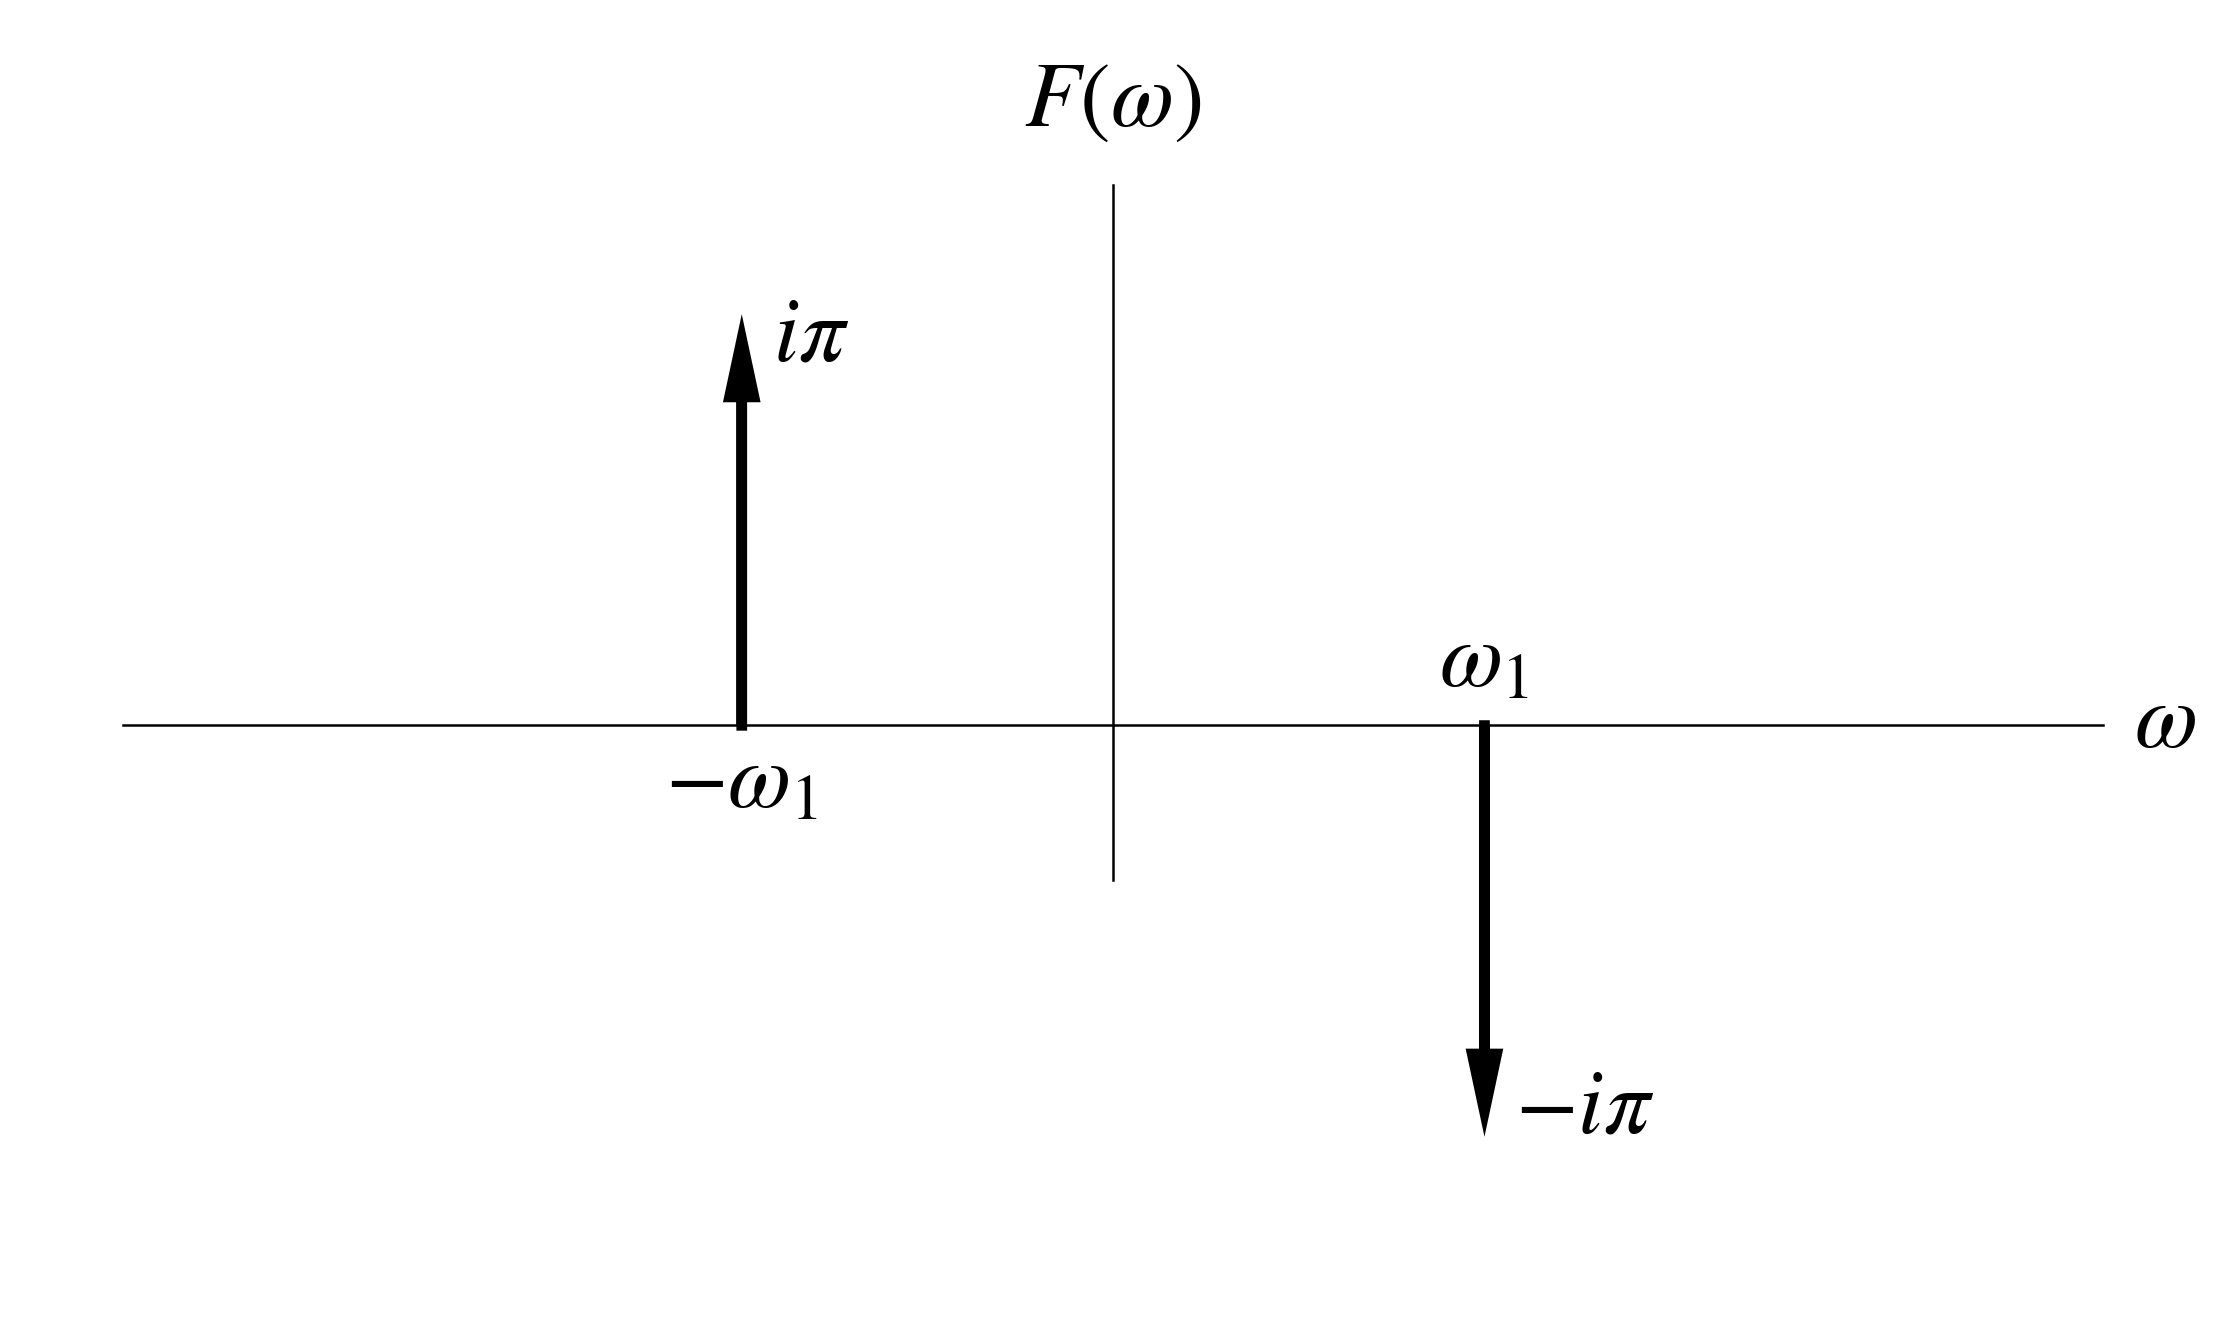
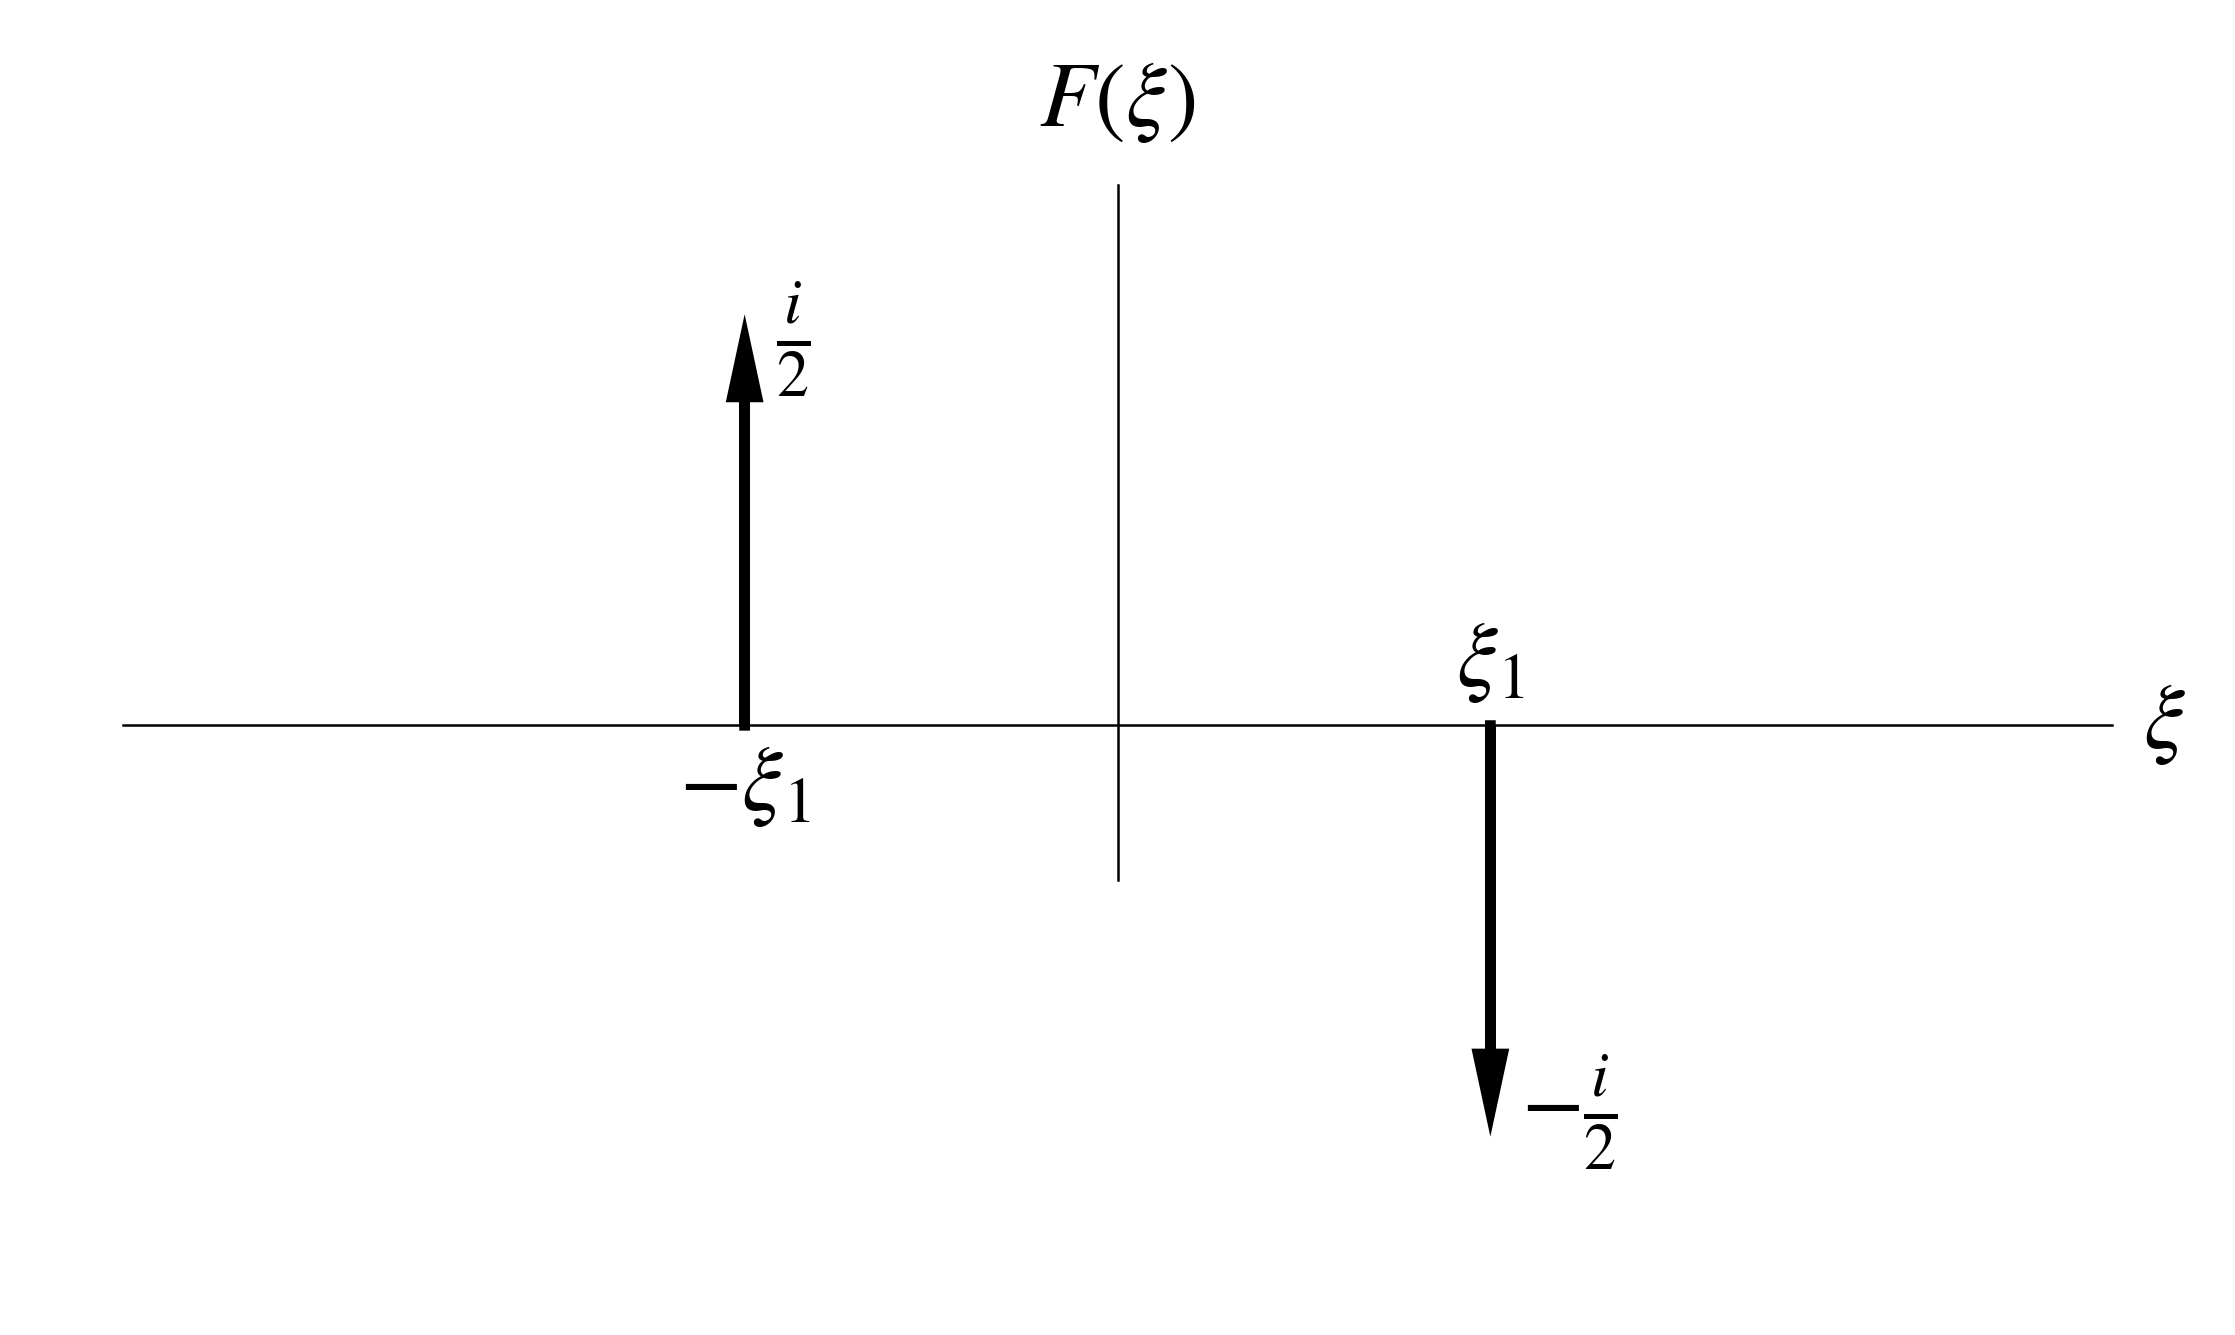
Completed Fourier Transform subsection

diff --git a/intro_to_QML/Ch2_simple_quantum_algorithms.html b/intro_to_QML/Ch2_simple_quantum_algorithms.html
@@ -406,8 +406,11 @@ img {
     
     <p>The Fourier Transform is a centrally important and widely used mathematical tool. In the case of signal processing of an audio or electromagnetic wave, it can convert a signal which varies in time (also called the 'time domain') into a visualisation of the component frequencies (called the 'frequency domain').</p>
 
-    <p>So, for a time varying equation $f(t)$ can be transformed into a frequency varying $F(\omega)$ through the following equation, where $\omega$ is angular frequency which can be related to frequency $f$ as $\omega = 2\pi f$.</p>
-    <p>$$F(\omega) = \int_{-\infty}^{\infty} g(t) e^{-i\omega t} dt$$</p>
+    <p>So, for a time varying equation $f(t)$ can be transformed into a frequency varying $F(\xi)$ through the Fourier transform, where $\xi$ is frequency and $t$ is time, as shown below</p>
+    <p>$$F(\xi) = \int_{-\infty}^{\infty} f(t) e^{2\pi i\xi t} dt$$</p>
+    <p>The inverse Fourier transform inverts this, yielding the time domain $f(t)$ from the Frequency domain $F(\xi)$</p>
+    <p>$$f(t) = \int_{-\infty}^{\infty} F(\xi) e^{2\pi i \xi t} dt$$</p>
+
 
     <!--bookmark: Visualise the discrete Fourier transform with graphs and explain.-->
     <p>To better understand this, it's worth demonstrating superposition by superimposing waveforms as seen below.</p>
@@ -415,54 +418,67 @@ img {
 
 
     <p>Before performing Fourier Transforms on the above waveforms, it's worth noting a rather useful integral identity</p>
-    <p>$$2\pi \delta (a - b) = \int_{-\infty}^{\infty} e^{-i (a-b) x }  dx $$</p>
+    <p>$$\delta (a - b) = \int_{-\infty}^{\infty} e^{-2 \pi i (a-b) x }  dx $$</p>
     <p>Where $\delta (a-b)$ is the Dirac delta, which is only equal to 1 if its argument, $a-b$, is equal to $0$, and is otherwise zero.</p>
 
-    <p>Let's start with the Fourier Transform of the first waveform which is a sine wave with a frequency of 5 Hz. Its angular frequency is given by $\omega_1=2\pi \times 5$.</p>
-    <p>$$F_{1}(\omega) = \int_{-\infty}^{\infty} sin(\omega_1 t) e^{-i\omega t} dt$$</p>
+    <p>Let's start with the Fourier Transform of the first waveform which is a sine wave with a frequency of $\xi_1=5$ Hz. </p>
+    <p>$$F_{1}(\omega) = \int_{-\infty}^{\infty} sin(2\pi \xi_1 t) e^{-2 \pi i \xi t} dt$$</p>
     <p>The sine equation can also be re-expressed as
     $$sin(\theta) = \frac{1}{2 i} (e^{i\theta}-e^{-i\theta})$$
-    Which when substituted into $F_{1}(\omega)$ leads to
+    Which when substituted into $F_{1}(\xi)$ leads to
     </p>
     <p>\begin{align}
-    F_{1}(\omega) &= \frac{1}{2 i}  \int_{-\infty}^{\infty} (e^{i\omega_{1}t}-e^{-i\omega_{1} t}) e^{-i\omega t} dt \\
-    &= frac{1}{2 i}\int_{-\infty}^{\infty} e^{-i(\omega-\omega_{1})t} dt - frac{1}{2 i}\int_{-\infty}^{\infty} e^{-i(\omega+\omega_{1})t} dt \\
+    F_{1}(\xi) &= \frac{1}{2 i}  \int_{-\infty}^{\infty} (e^{2\pi i\xi_{1}t}-e^{-2\pi i\xi_{1} t}) e^{-2\pi i\xi t} dt \\
+    &= \frac{1}{2 i}\int_{-\infty}^{\infty} e^{-2\pi i(\xi-\xi_{1})t} dt - \frac{1}{2 i}\int_{-\infty}^{\infty} e^{-2\pi i(\xi+\xi_{1})t} dt \\
     \end{align}
     </p>
     <p>Then, we can substitute the aforementioned integral identity leading to the Dirac delta
-    $$F_{1}(\omega) = \frac{\pi}{i} \delta(\omega-\omega_{1}) - \frac{\pi}{i}\delta(\omega+\omega_{1})$$
+    $$F_{1}(\omega) = \frac{1}{2i} \delta(\xi-\xi_{1}) - \frac{1}{2i}\delta(\xi+\xi_{1})$$
     Which when using $\frac{1}{i}=-i$ turns into
-    $$F_{1}(\omega) = -i\pi\delta(\omega-\omega_{1}) + i\pi\delta(\omega+\omega_{1})$$
+    $$F_{1}(\omega) = -\frac{i}{2}\delta(\xi-\xi_{1}) + \frac{i}{2}\delta(\xi+\xi_{1})$$
     </p>
 
     <p>When this Fourier transform $F_{1}$ is plotted, it leads to</p>
     <img src="Figures/Ch2_Quantum_Algorithms_Figures/fourier_spectrum_for_sine_wave.png" alt="Fourier spectrum of sine wave" width=1000 height=599>
 
-    <p>A similar conclusion can be drawn from the third waveform $w_{3}=1.2 sin(60\pi t)$, since it is also a sine wave, except with an amplitude factor of $1.2$ which leads to peaks of magnitude $1.2 \pi$ at $|\omega|=\omega_{3}=60\pi$</p>
+    <p>A similar conclusion can be drawn from the third waveform $w_{3}=1.2 sin(60\pi t)$, since it is also a sine wave, except with an amplitude factor of $1.2$ which leads to peaks of magnitude $1.2 \pi$ at $|\xi|=\xi_{3}=30$</p>
 
 
     <p>For cosine waveforms, such as $w_{2}=cos(30\pi t)$ we have to instead substitute in the following identity
-    $$sin(\theta) = \frac{1}{2} (e^{i\theta}+e^{-i\theta})$$
-    Following a similar derivation as above, and using $\omega_{3}=60\pi$ leads to</p>
+    $$cos(\theta) = \frac{1}{2} (e^{i\theta}+e^{-i\theta})$$
+    Following a similar derivation as above, and using $\omega_{2}=30\pi$ leads to</p>
     <p>
     \begin{align}
-    F_{3}(\omega) &= \int_{-\infty}^{\infty} cos(\omega_{3} t) e^{-i\omega t} dt\\
-    &= \frac{1}{2} \int_{-\infty}^{\infty} (e^{i\omega_{3}t}+e^{-i\omega_{3} t}) e^{-i\omega t} dt \\
-    &= \frac{1}{2} \int_{-\infty}^{\infty} e^{-i(\omega-\omega_{3})t} dt + frac{1}{2} \int_{-\infty}^{\infty} e^{-i(\omega+\omega_{3})t} dt 
-    &= \pi \delta(\omega-\omega_{3}) + \pi \delta(\omega+\omega_{3})
+    F_{2}(\xi) &= \int_{-\infty}^{\infty} cos(2\pi\xi_{2} t) e^{-2\pi i\xi t} dt\\
+    &= \frac{1}{2} \int_{-\infty}^{\infty} (e^{2\pi i\xi_{2}t}+e^{-2\pi i\xi_{2} t}) e^{-2\pi i\xi t} dt \\
+    &= \frac{1}{2} \int_{-\infty}^{\infty} e^{-2\pi i(\xi-\xi_{2})t} dt + \frac{1}{2} \int_{-\infty}^{\infty} e^{-2\pi i(\xi+\xi_{2})t} dt\\ 
+    &=  \frac{1}{2} \delta(\xi-\xi_{2}) + \frac{1}{2} \delta(\xi+\xi_{2})
     \end{align}
     </p>
 
     <img src="Figures/Ch2_Quantum_Algorithms_Figures/fourier_spectrum_for_cosine_wave.png" alt="Fourier spectrum of cosine wave" width=1000 height=599>
 
+    <p>With the linear nature of Fourier transform, we can sum the Fourier transforms of the component waveforms to arrive at the Fourier transform of the total waveform $F_{t}(\omega)$</p>
+
+    <p>
+    \begin{align}
+    w &= w_1 + w_2 + w_3 \\
+    F(w) &= F(w_1) + F(w_2) + F(w_3) \\
+    F_{t}(\omega) &= F_{1}(\omega) + F_{2}(\omega) + F_{3}(\omega) \\
+    F_{t}(\omega) &= -0.5i\delta(\xi-5) + 0.5i\delta(\xi+5) \\ &+ 0.5 \delta(\xi-15) + 0.5 \delta(\xi+15) \\ &-0.6 i\delta(\xi-30) + 0.6 i\delta(\xi+30)
+    \end{align}
+    </p>
+    <p>Due to the complex nature of this equation, containing both imaginary and real terms, the following visualisation is of the magnitude $|F_{t}(\omega)|$</p>
+    <img src="Figures/Ch2_Quantum_Algorithms_Figures/magnitude_of_fourier_spectrum_for_composite_waveform.png" width=1000 height=601 alt="Magnitude of Fourier spectrum of composite wave">
     <!--bookmark: Explain how Fourier transform for the composite waveform works, check and briefly describe the properties of the Fourier transform and how they can be used for such purposes, and demonstrate with a figure-->
 
+
+    <h2>Quantum Fourier Transform Circuit</h2>
+
     <!--bookmark: Discrete Fourier Transform. Explain it, and the forward and inverse transforms-->
-    <h2>Quantum Fourier Transform</h2>
-
-
-
-    <!--bookmark: Explain the Quantum Fourier transform, both mathematically wand with a circuit.-->
+    <!--bookmark: Explain the QFT and its inverse mathematically -->
+    
+    <!--bookmark: Explain the Quantum Fourier transform in circuit form-->
     <!--bookmark: Show the inverse Fourier circuit.--> 
     <!--bookmark: Show a 3 qubit example with T and S and swap gate-->
 
